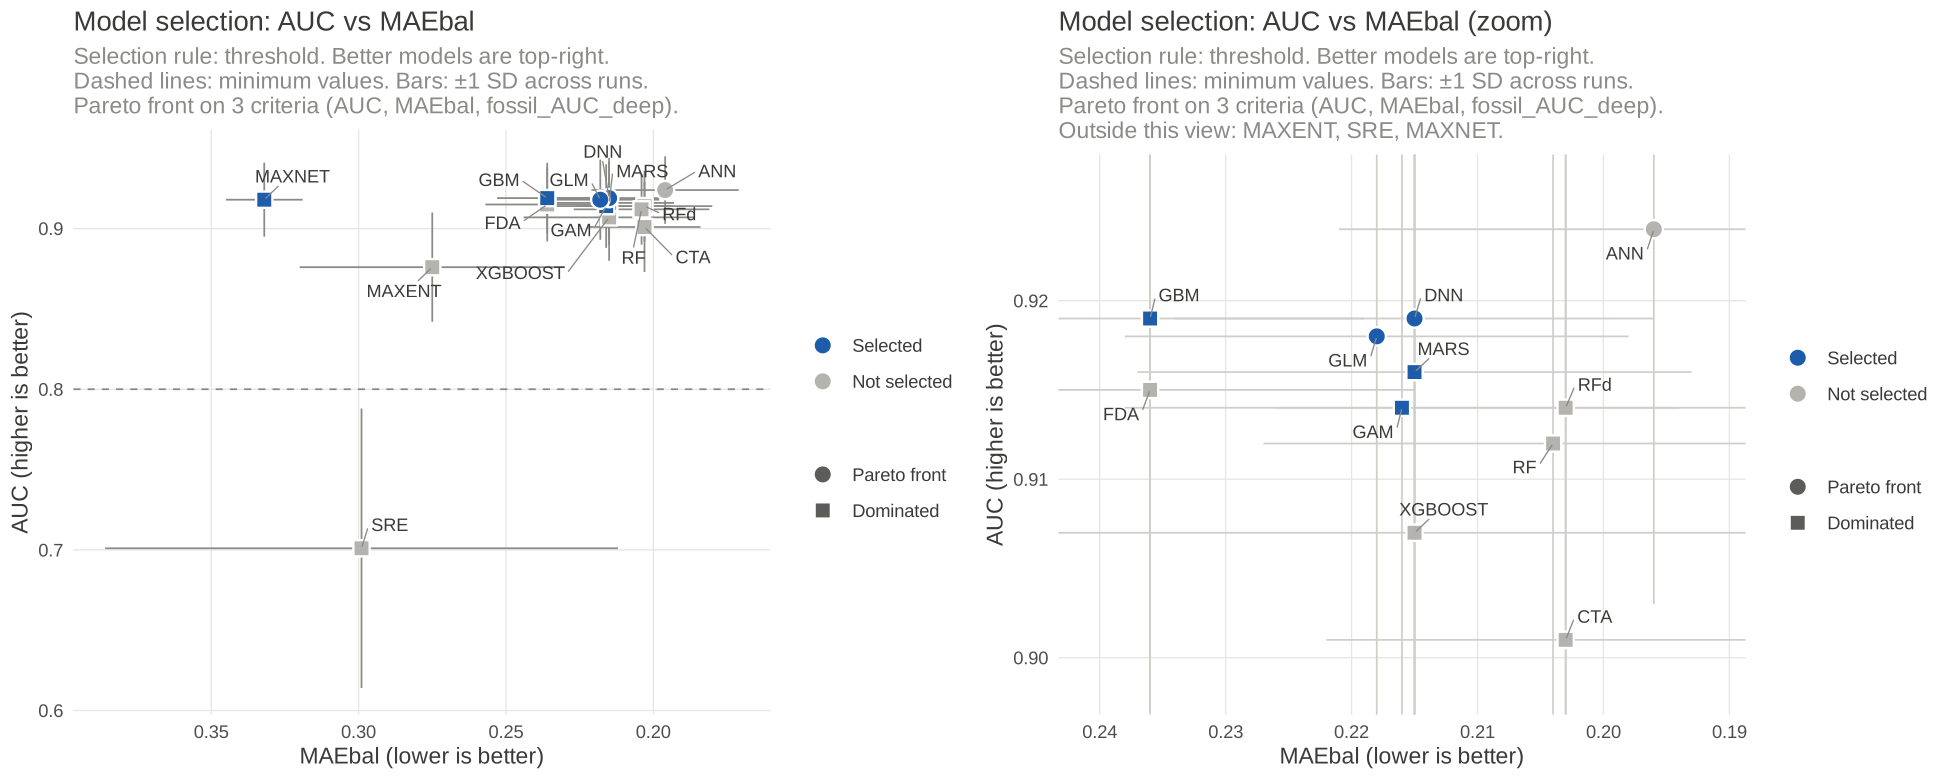
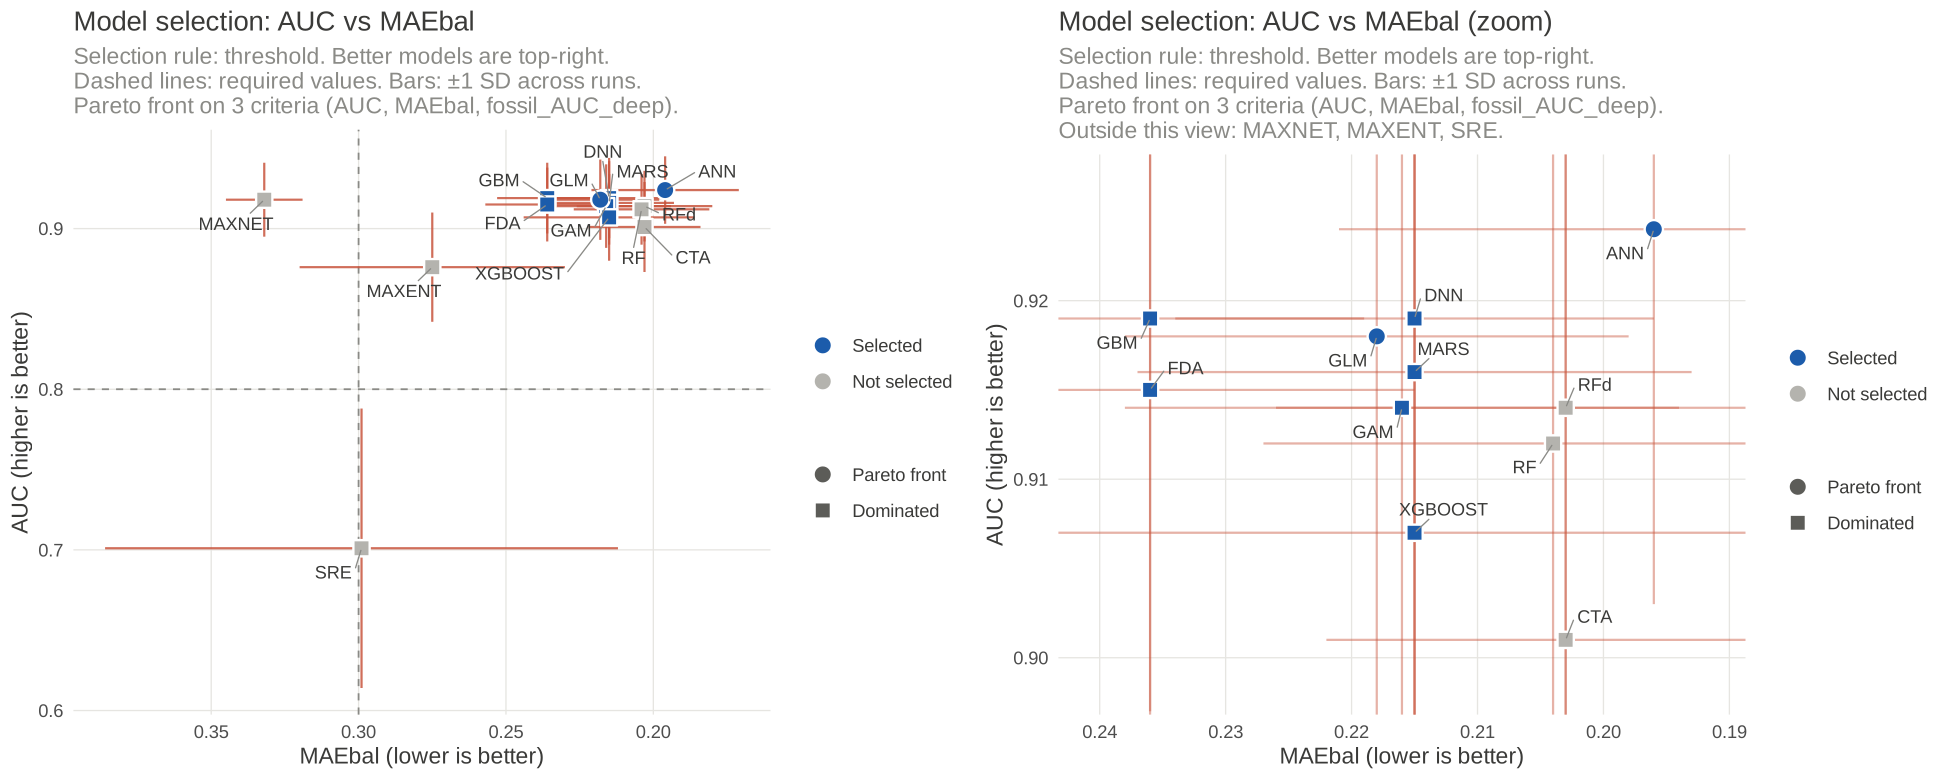
Selection notes on unconstrained criteria, coloured error bars for any metric (2.8.0)
- select_models(): report selected models far worse than the others on
  a criterion without a required value, suggesting max/min_metrics
- error bars in a distinct colour (bar_colour), from bootstrap intervals
  or SD for any metric on either axis, error_bars = FALSE to hide;
  subtitle names the kind per axis
- evaluate_models(boot_metrics = "all"): intervals for every metric
- tests, README, NEWS

Claude-Session: https://claude.ai/code/session_016vzwX4WM1PTi9LQ4YKu42d

diff --git a/README.md b/README.md
@@ -620,7 +620,13 @@ When many algorithms perform alike, the plot gets crowded in one corner.
 the full view and, next to it, a **zoom on the region of the best models**:
 the Pareto fronts of the two plotted metrics are added one by one until at
 least half of the models are included. Models outside the zoom are named in
-the subtitle, and selected models are always drawn on top.
+the subtitle, and selected models are always drawn on top. Dashed lines
+mark the required minimum and maximum values. Error bars (red, `bar_colour`
+to change, `error_bars = FALSE` to hide) show, for each axis, the bootstrap
+interval (`<metric>_lower`, `<metric>_upper`) or else +/- 1 SD across runs
+(`<metric>_sd`); keep those columns when you join tables for
+`select_models()`. `evaluate_models(boot_metrics = "all")` gives intervals
+for every metric, not only the criteria.
 
 ![Full view and zoom](man/figures/selection_zoom.png)
 
@@ -682,7 +688,18 @@ model, and the bootstrap below can compare them.
 with minimum values for discrimination (AUC, TSS) and a maximum for
 calibration (MAEbal) keeps models that rank sites well *and* predict
 sensible values; a model with good AUC but values shifted upwards everywhere
-(high MAEbal, positive bias) would otherwise pass.
+(high MAEbal, positive bias) would otherwise pass. **Criteria are only
+enforced through required values**: `criteria` decides the Pareto front and
+the ranking, not which models pass. When a selected model is far worse than
+the other selected models on a criterion without a required value, the
+printout says so and suggests the limit to add:
+
+```
+  SELECTED: ANN, DNN, GLM, MARS, GBM, GAM, MAXNET, FDA, XGBOOST
+  Note: MAXNET is selected but its MAEbal (0.332) is far higher than the other
+  selected models (0.196-0.236), and MAEbal has no required value. To require
+  one, add max_metrics = c(MAEbal = ...).
+```
 
 **Are the differences real? Record bootstrap.** With a few hundred fossil
 records, gaps of a few hundredths may be noise. `n_boot` resamples the

diff --git a/NEWS.md b/NEWS.md
@@ -1,3 +1,20 @@
+# preENM 2.8.0
+
+* `select_models()` reports selected models that are far worse than the
+  other selected models on a criterion without a required value (e.g. a
+  model with good AUC and fossil AUC but much higher MAEbal) and suggests
+  the `max_metrics`/`min_metrics` to add (`attr(x, "outliers")`). Criteria
+  only decide the Pareto front and the ranking; models pass through the
+  required values.
+* Error bars in `plot_selection()`, `plot_pareto()`, `plot()` and
+  `plot_models()`: drawn in a distinct colour (`bar_colour`, default red)
+  so they no longer blend with grid and reference lines; taken from the
+  bootstrap interval (`_lower`, `_upper`) or else +/- 1 SD (`_sd`) for any
+  metric on either axis; `error_bars = FALSE` hides them. The subtitle says
+  which kind each axis shows.
+* `evaluate_models(boot_metrics = "all")`: bootstrap intervals for every
+  metric (MAE, MAEbal, bias, TSS, Boyce), not only the criteria.
+
 # preENM 2.7.0
 
 * `temporal_validation()`: **paired record bootstrap** (`n_boot`, `conf`,
